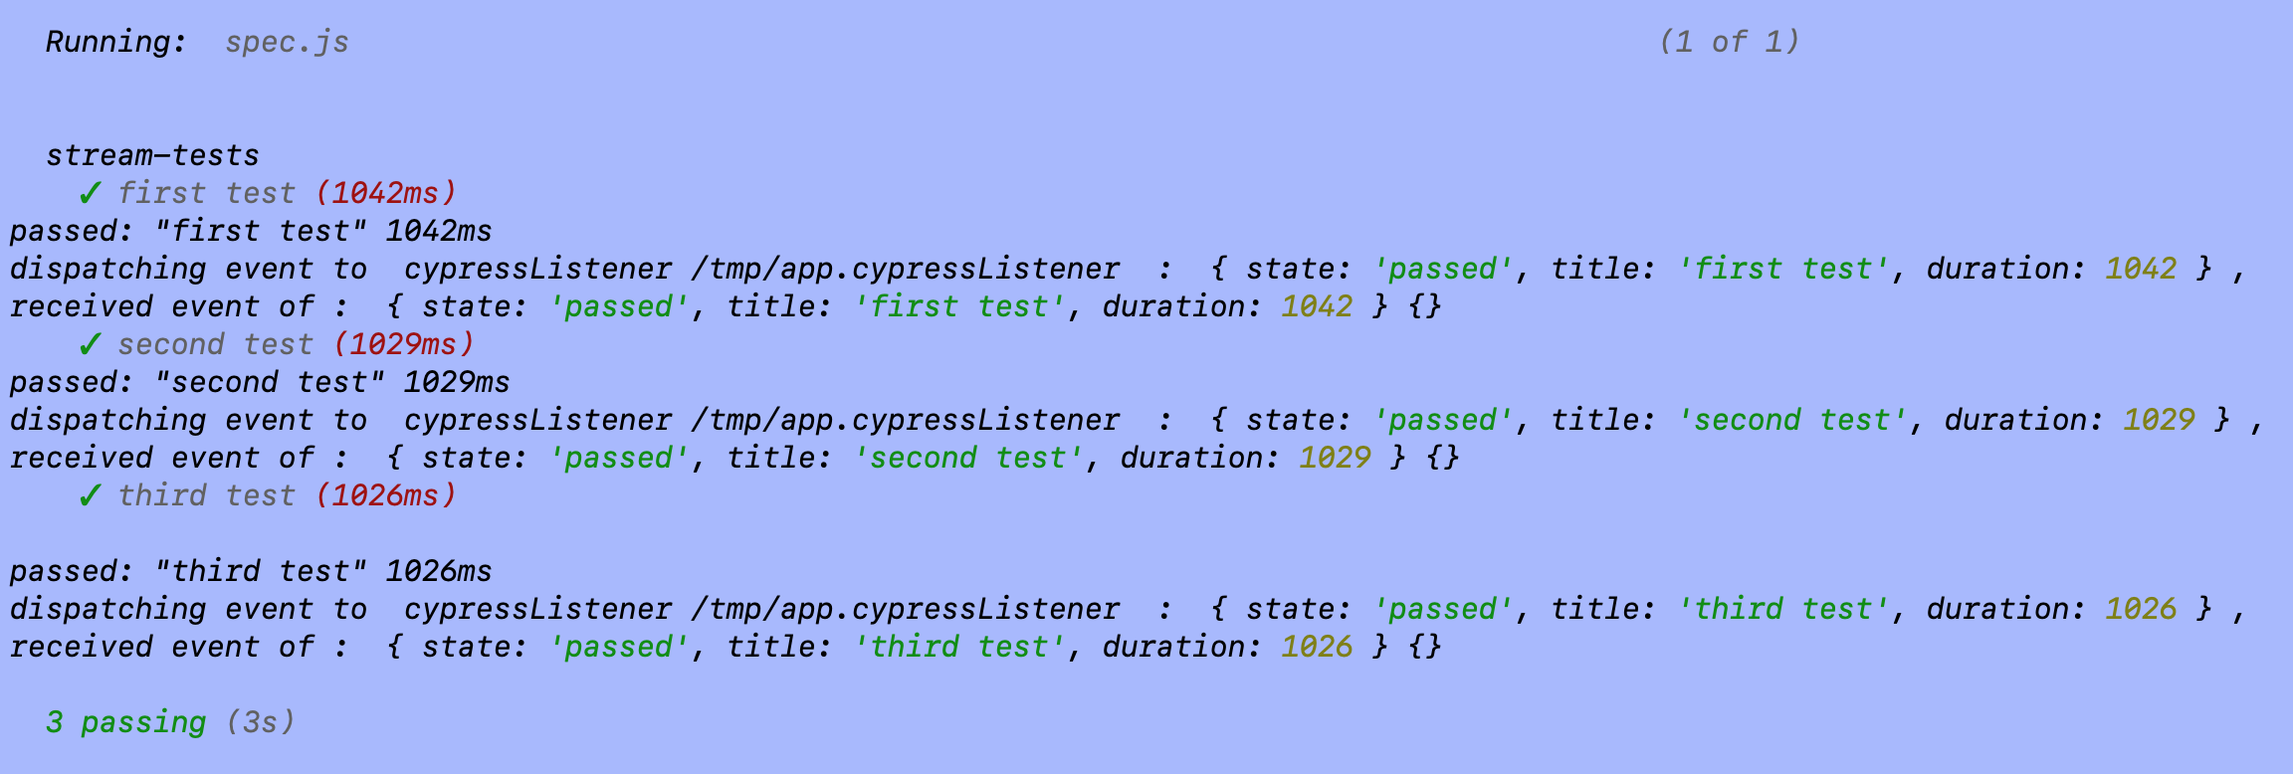
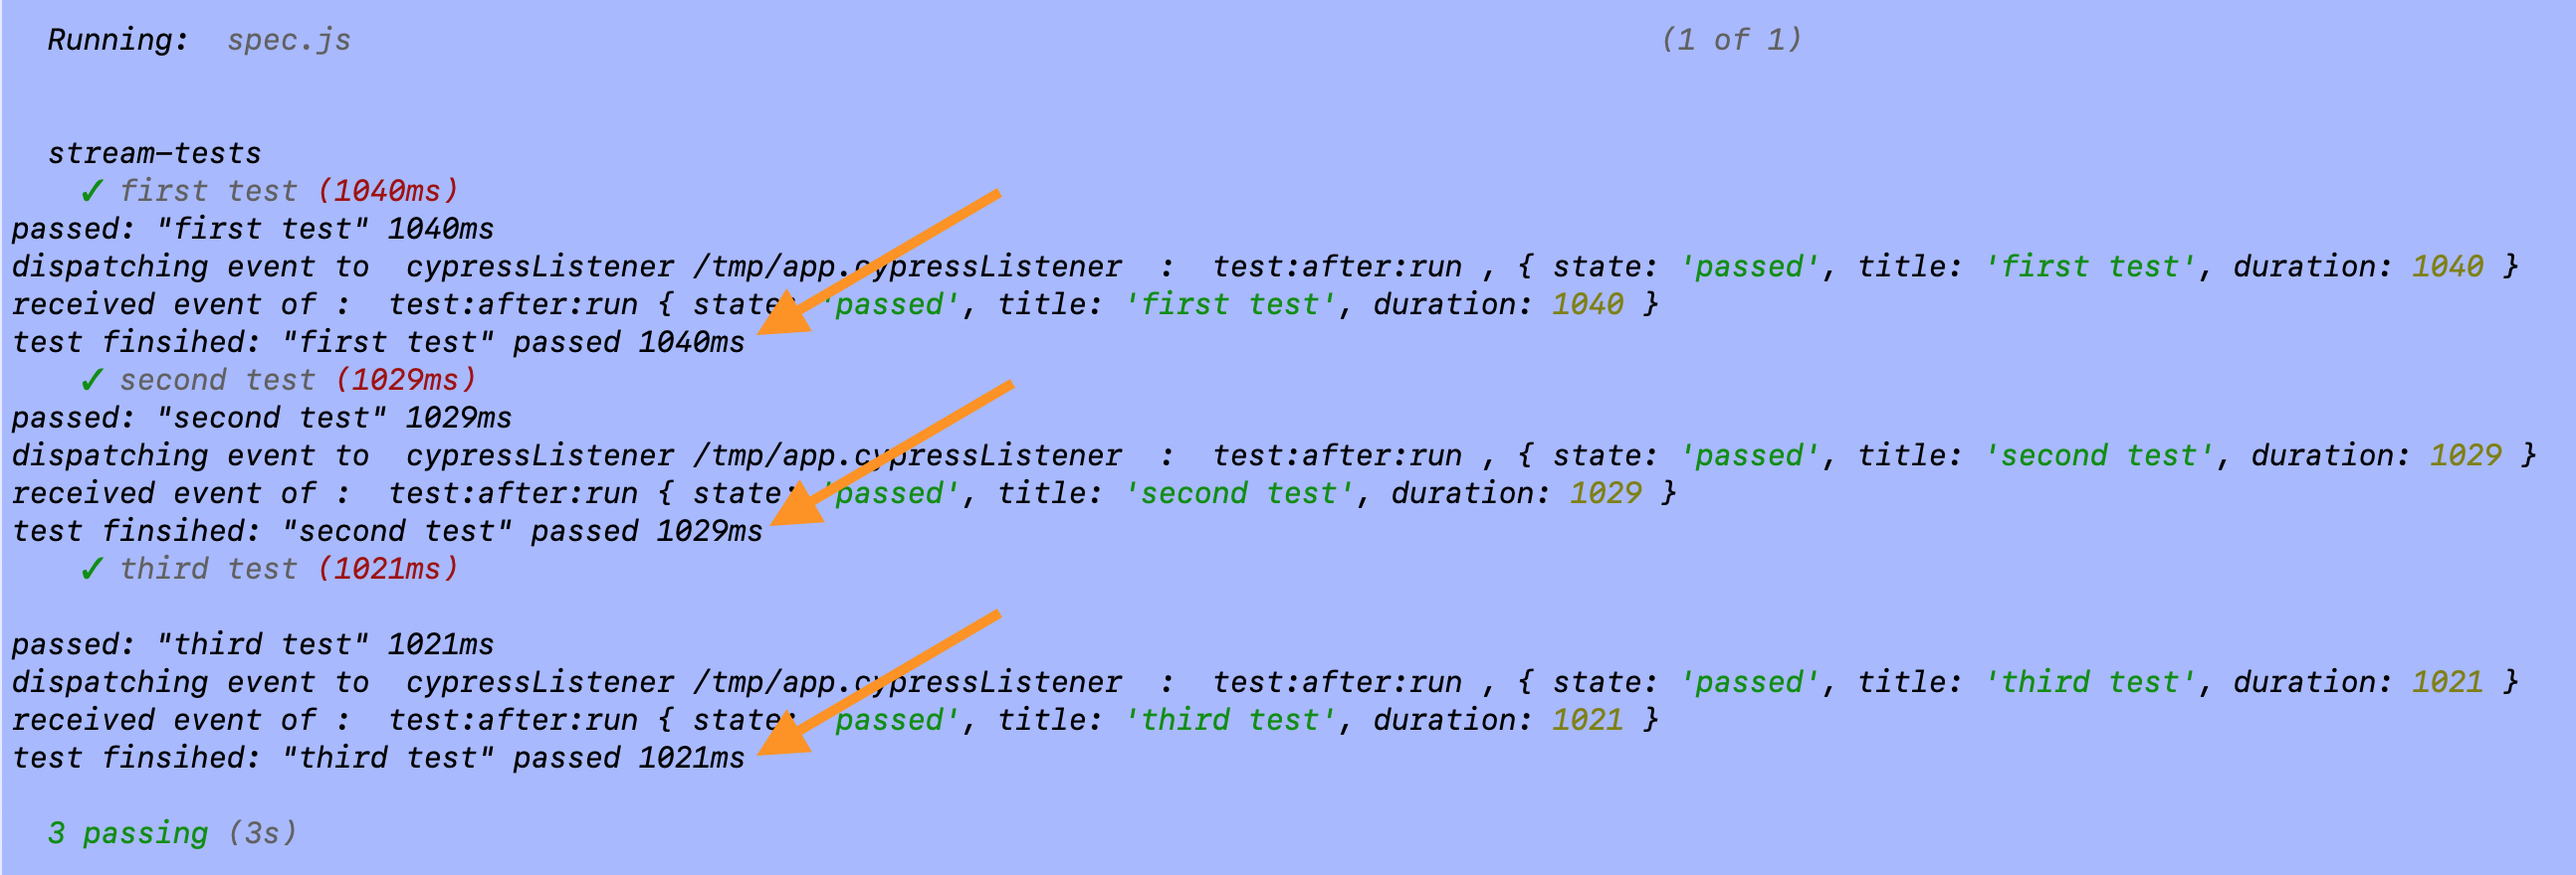
update comments

diff --git a/examples/server-communication__stream-tests/index.js b/examples/server-communication__stream-tests/index.js
@@ -3,6 +3,10 @@ const cypress = require('cypress')
 // http://riaevangelist.github.io/node-ipc/
 const ipc = require('node-ipc')
 
+// This process runs first using "node ." command.
+// It creates an IPC server with ID "cypressListener"
+// and then starts Cypress tests using "cypress" NPM module API
+// (see https://on.cypress.io/module-api)
 ipc.config.id = 'cypressListener'
 ipc.serve(() => {
   console.log('ipc.serve')
@@ -15,8 +19,14 @@ ipc.serve(() => {
     process.exit(1)
   })
 
-  ipc.server.on('message', (data) => {
-    ipc.log('got a message'.debug, data)
+  // receive stream of events
+  // we will get a message with each test's results
+  // as soon as the test runs
+  // (in reality, it will be send when the next test starts,
+  // or for the last test when "after" hook starts)
+  ipc.server.on('test:after:run', (data) => {
+    console.log('test finsihed: "%s" %s %dms',
+      data.title, data.state, data.duration)
   })
 })
 

diff --git a/examples/server-communication__stream-tests/cypress/plugins/index.js b/examples/server-communication__stream-tests/cypress/plugins/index.js
@@ -18,7 +18,7 @@ module.exports = (on, config) => {
     testFinished (attributes) {
       // console.log(name)
       console.log('%s: "%s" %dms', attributes.state, attributes.title, attributes.duration)
-      ipc.of.cypressListener.emit({
+      ipc.of.cypressListener.emit('test:after:run', {
         state: attributes.state,
         title: attributes.title,
         duration: attributes.duration,

diff --git a/examples/server-communication__stream-tests/README.md b/examples/server-communication__stream-tests/README.md
@@ -18,6 +18,12 @@ const ipc = require('node-ipc')
 ipc.config.id = 'cypressListener'
 ipc.serve(() => {
   cypress.run().then(...)
+
+  // receive stream of events
+  ipc.server.on('test:after:run', (data) => {
+    console.log('test finsihed: "%s" %s %dms',
+      data.title, data.state, data.duration)
+  })
 })
 ```
 
@@ -31,7 +37,7 @@ on('task', {
   testFinished (attributes) {
     console.log('%s: "%s" %dms',
       attributes.state, attributes.title, attributes.duration)
-    ipc.of.cypressListener.emit({
+    ipc.of.cypressListener.emit('test:after:run', {
       state: attributes.state,
       title: attributes.title,
       duration: attributes.duration,
